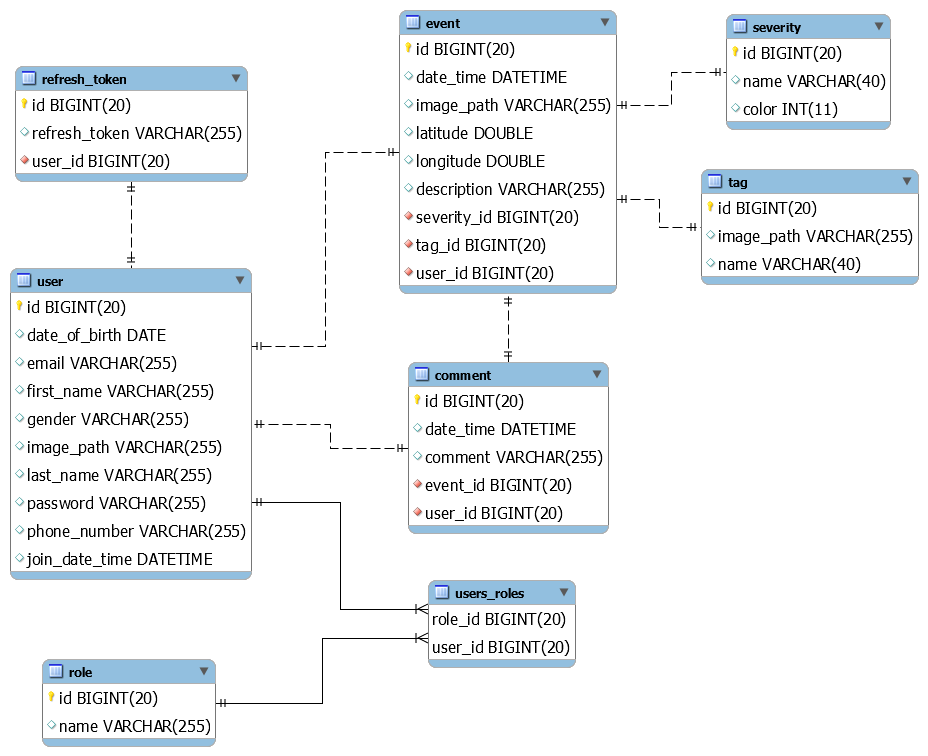
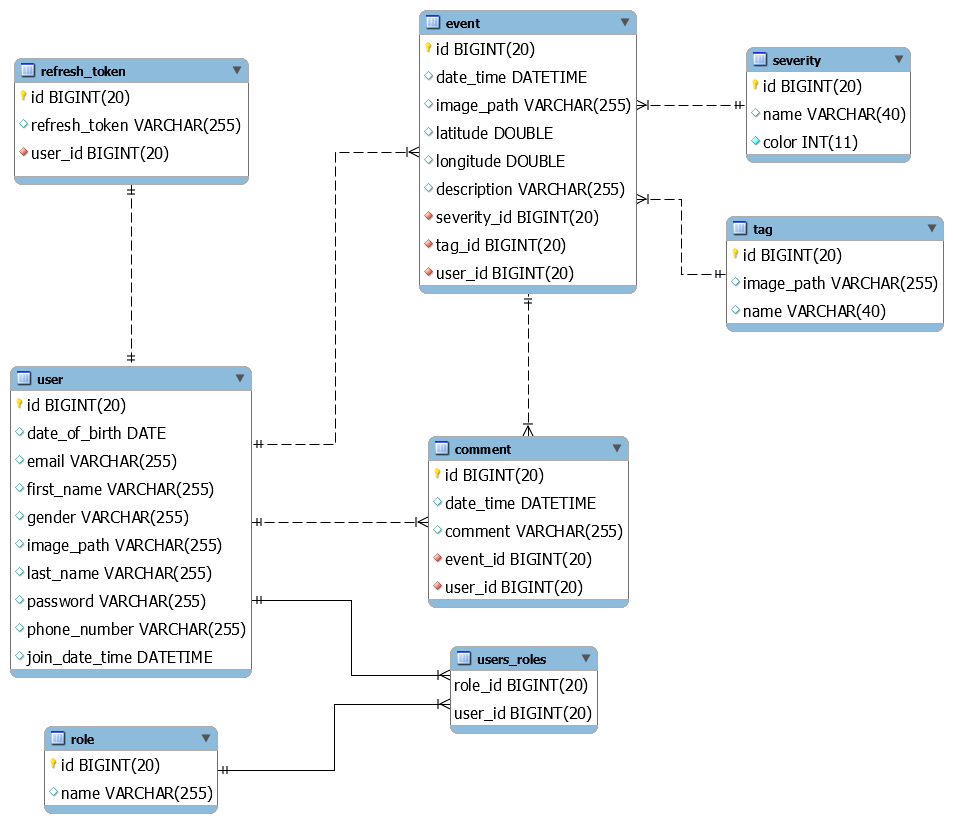
Update entities relation

diff --git a/src/main/java/com/as/eventalertbackend/data/model/Event.java b/src/main/java/com/as/eventalertbackend/data/model/Event.java
@@ -1,11 +1,13 @@
 package com.as.eventalertbackend.data.model;
 
+import com.fasterxml.jackson.annotation.JsonIgnore;
 import lombok.Getter;
 import lombok.Setter;
 import org.hibernate.annotations.CreationTimestamp;
 
 import javax.persistence.*;
 import java.time.LocalDateTime;
+import java.util.Set;
 
 @Entity
 @Getter
@@ -21,12 +23,20 @@ public class Event {
     private Double longitude;
     private String imagePath;
     private String description;
-    @OneToOne
+
+    @JsonIgnore
+    @OneToMany(mappedBy = "event")
+    private Set<EventComment> eventComments;
+    @ManyToOne
+    @JoinColumn(name = "severity_id", nullable = false)
     private EventSeverity severity;
-    @OneToOne
+    @ManyToOne
+    @JoinColumn(name = "tag_id", nullable = false)
     private EventTag tag;
-    @OneToOne
+    @ManyToOne
+    @JoinColumn(name = "user_id", nullable = false)
     private User user;
+
     @Transient
     private double distance;
 

diff --git a/src/main/java/com/as/eventalertbackend/data/model/User.java b/src/main/java/com/as/eventalertbackend/data/model/User.java
@@ -35,11 +35,19 @@ public class User {
     private String imagePath;
     @Enumerated(EnumType.STRING)
     private Gender gender;
+
+    @JsonIgnore
+    @OneToMany(mappedBy = "user")
+    private Set<Event> events;
+    @JsonIgnore
+    @OneToMany(mappedBy = "user")
+    private Set<EventComment> eventComments;
     @ManyToMany(fetch = FetchType.EAGER)
     @JoinTable(name = "users_roles",
             joinColumns = @JoinColumn(name = "user_id"),
             inverseJoinColumns = @JoinColumn(name = "role_id"))
     private Set<UserRole> userRoles;
+
     @Formula("(SELECT COUNT(e.id) FROM event e WHERE e.user_id = id)")
     private int reportsNumber;
 

diff --git a/src/main/java/com/as/eventalertbackend/data/model/EventSeverity.java b/src/main/java/com/as/eventalertbackend/data/model/EventSeverity.java
@@ -1,10 +1,12 @@
 package com.as.eventalertbackend.data.model;
 
+import com.fasterxml.jackson.annotation.JsonIgnore;
 import lombok.Getter;
 import lombok.Setter;
 
 import javax.persistence.*;
 import javax.validation.constraints.Size;
+import java.util.Set;
 
 @Entity
 @Table(name = "severity")
@@ -18,5 +20,8 @@ public class EventSeverity {
     @Size(min = 3, max = 40, message = "The name must have between 3 and 40 characters")
     private String name;
     private int color;
+    @JsonIgnore
+    @OneToMany(mappedBy = "severity")
+    private Set<Event> events;
 
 }

diff --git a/src/main/java/com/as/eventalertbackend/data/model/EventTag.java b/src/main/java/com/as/eventalertbackend/data/model/EventTag.java
@@ -1,11 +1,13 @@
 package com.as.eventalertbackend.data.model;
 
+import com.fasterxml.jackson.annotation.JsonIgnore;
 import lombok.Getter;
 import lombok.Setter;
 
 import javax.persistence.*;
 import javax.validation.constraints.NotEmpty;
 import javax.validation.constraints.Size;
+import java.util.Set;
 
 @Entity
 @Table(name = "tag")
@@ -20,5 +22,8 @@ public class EventTag {
     private String name;
     @NotEmpty(message = "Invalid image path")
     private String imagePath;
+    @JsonIgnore
+    @OneToMany(mappedBy = "tag")
+    private Set<Event> events;
 
 }

diff --git a/src/main/java/com/as/eventalertbackend/service/EventService.java b/src/main/java/com/as/eventalertbackend/service/EventService.java
@@ -75,7 +75,7 @@ public class EventService {
                     "The end date must be after the start date");
         }
 
-        if (body.getEndDate().getYear() - body.getStartDate().getYear() >= MAX_YEARS) {
+        if (body.getEndDate().getYear() - body.getStartDate().getYear() > MAX_YEARS) {
             throw new IllegalActionException(
                     "The difference between the start year " + body.getStartDate().getYear() +
                             " and the end year " + body.getEndDate().getYear() +

diff --git a/src/main/java/com/as/eventalertbackend/data/model/UserRole.java b/src/main/java/com/as/eventalertbackend/data/model/UserRole.java
@@ -1,10 +1,12 @@
 package com.as.eventalertbackend.data.model;
 
 import com.as.eventalertbackend.enums.Role;
+import com.fasterxml.jackson.annotation.JsonIgnore;
 import lombok.Getter;
 import lombok.Setter;
 
 import javax.persistence.*;
+import java.util.Set;
 
 @Entity
 @Table(name = "role")
@@ -17,5 +19,8 @@ public class UserRole {
     private Long id;
     @Enumerated(EnumType.STRING)
     private Role name;
+    @JsonIgnore
+    @ManyToMany(mappedBy = "userRoles")
+    private Set<User> users;
 
 }

diff --git a/src/main/java/com/as/eventalertbackend/data/model/EventComment.java b/src/main/java/com/as/eventalertbackend/data/model/EventComment.java
@@ -21,9 +21,11 @@ public class EventComment {
     private LocalDateTime dateTime;
     private String comment;
     @JsonIgnore
-    @OneToOne
+    @ManyToOne
+    @JoinColumn(name = "event_id", nullable = false)
     private Event event;
-    @OneToOne
+    @ManyToOne
+    @JoinColumn(name = "user_id", nullable = false)
     private User user;
 
 }
